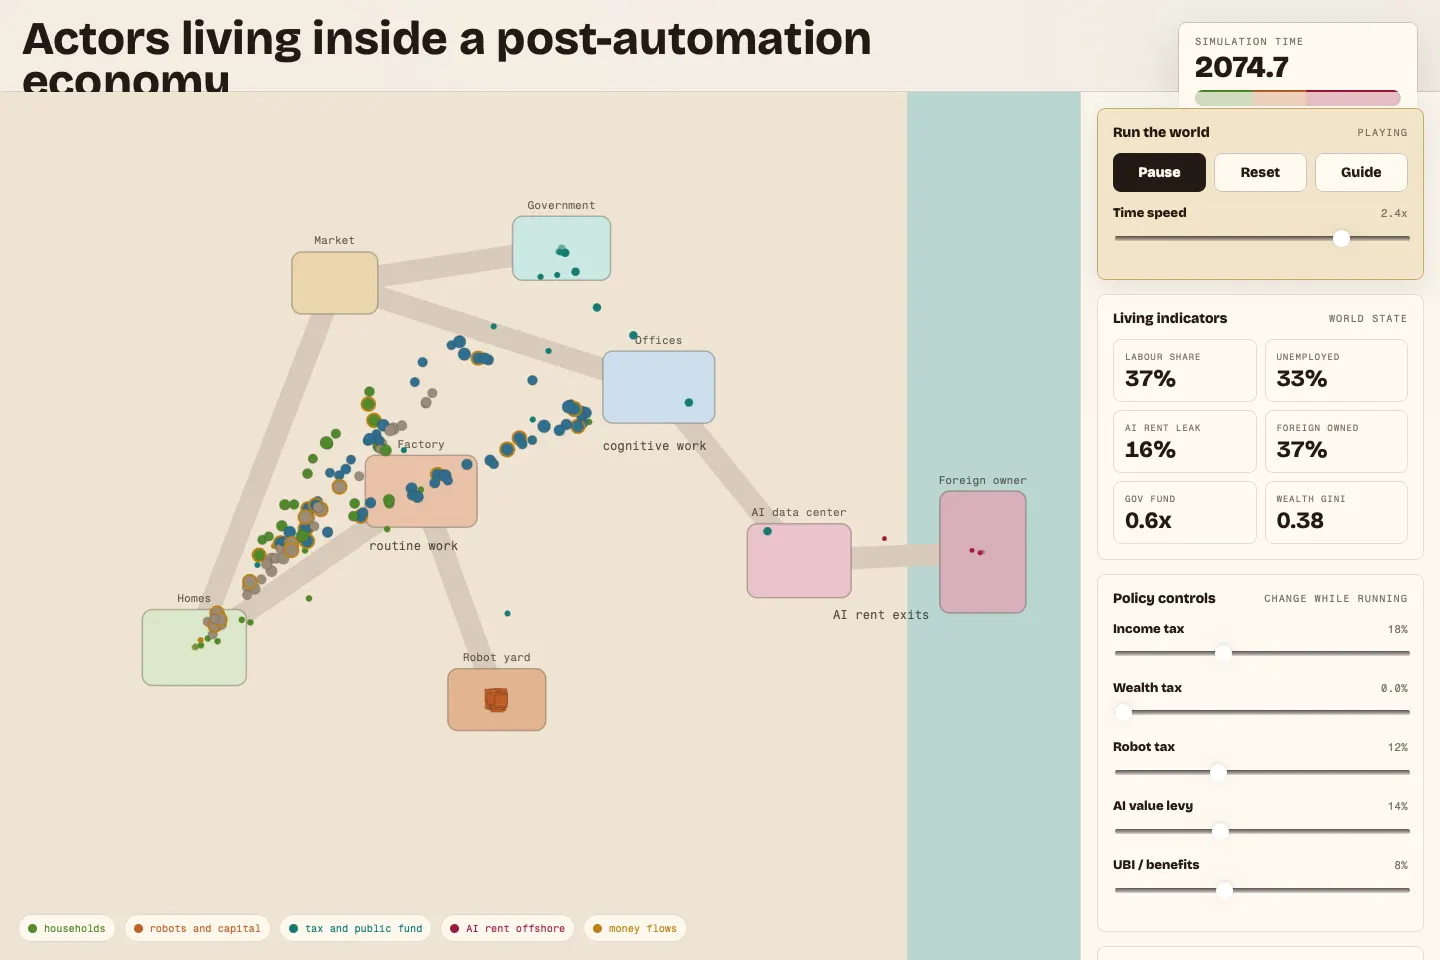
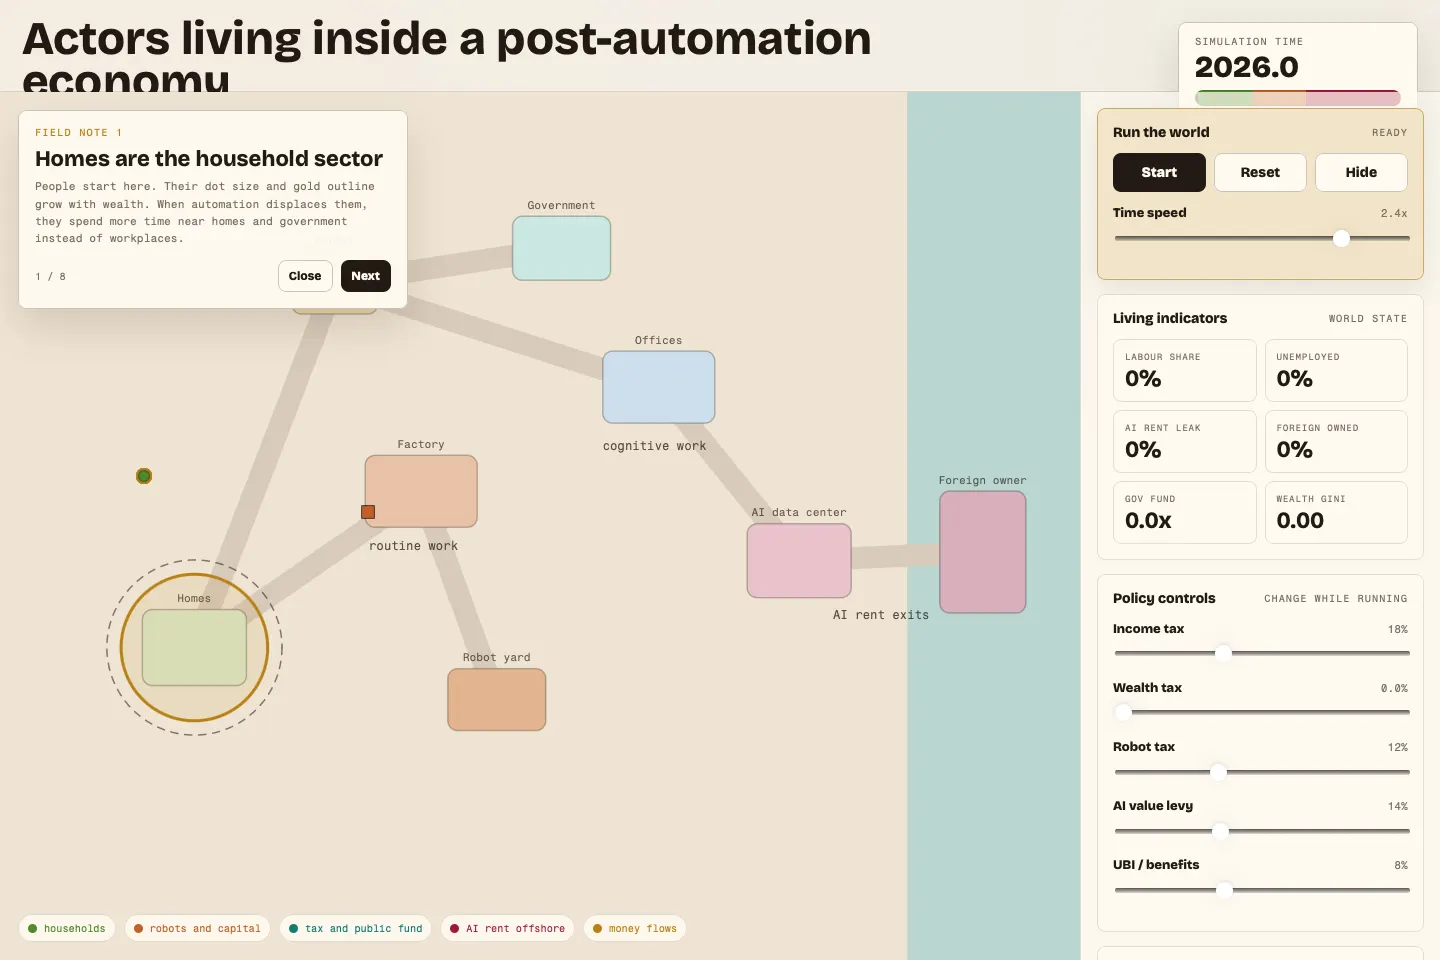
Add GitHub Pages screenshot capture script

diff --git a/README.md b/README.md
@@ -27,8 +27,24 @@ The GitHub Pages deployment serves the interactive simulation from the repositor
 - `index.html` - GitHub Pages entry point.
 - `post_automation_world.html` - Main interactive 2D simulation.
 - `assets/post-automation-world.webp` - Compressed screenshot used by this README.
+- `scripts/capture_latest_screenshot.sh` - Captures and compresses a fresh screenshot from GitHub Pages.
 - `post_automation_sim.py` - Python/uv model script for numerical experiments.
 - `post-automation-simulation-concept.html` - Earlier visual concept explainer.
+
+## Update The Screenshot
+
+The screenshot script uses the published GitHub Pages app, not a local server.
+
+```bash
+./scripts/capture_latest_screenshot.sh
+```
+
+Optional overrides:
+
+```bash
+WAIT_MS=8000 QUALITY=82 ./scripts/capture_latest_screenshot.sh
+./scripts/capture_latest_screenshot.sh https://namuan.github.io/post-automation-world/ assets/post-automation-world.webp
+```
 
 ## Run The Python Model
 
